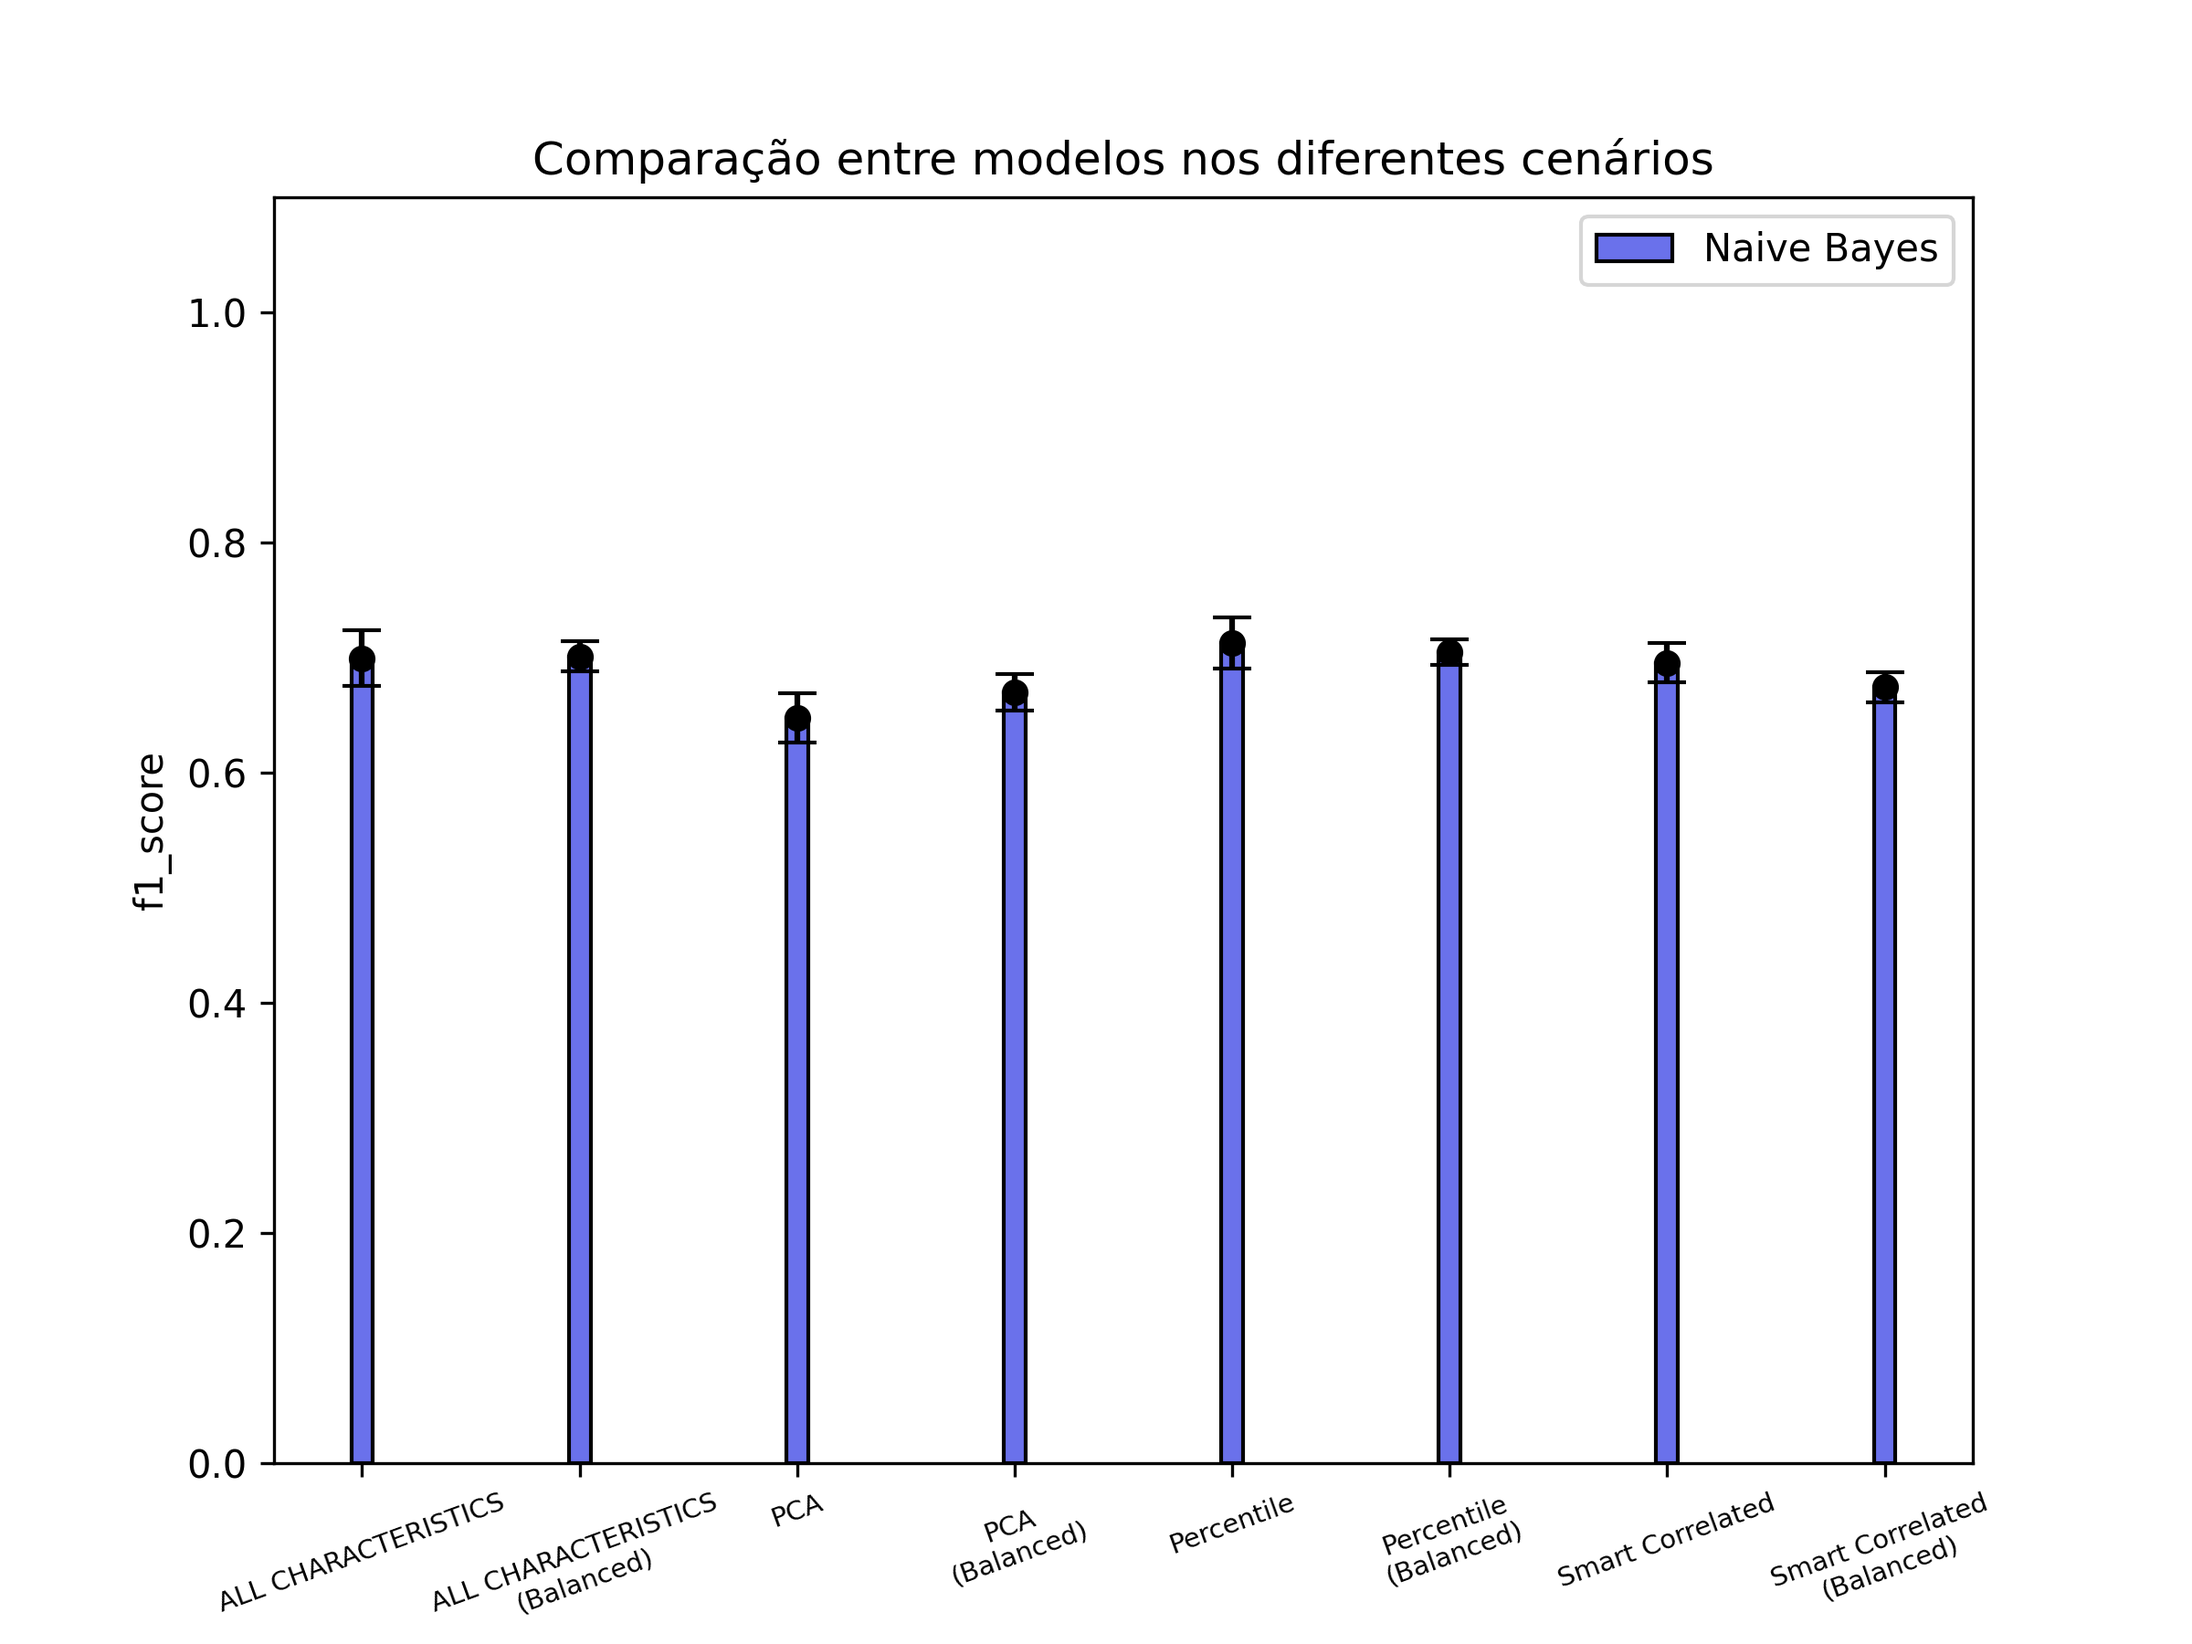
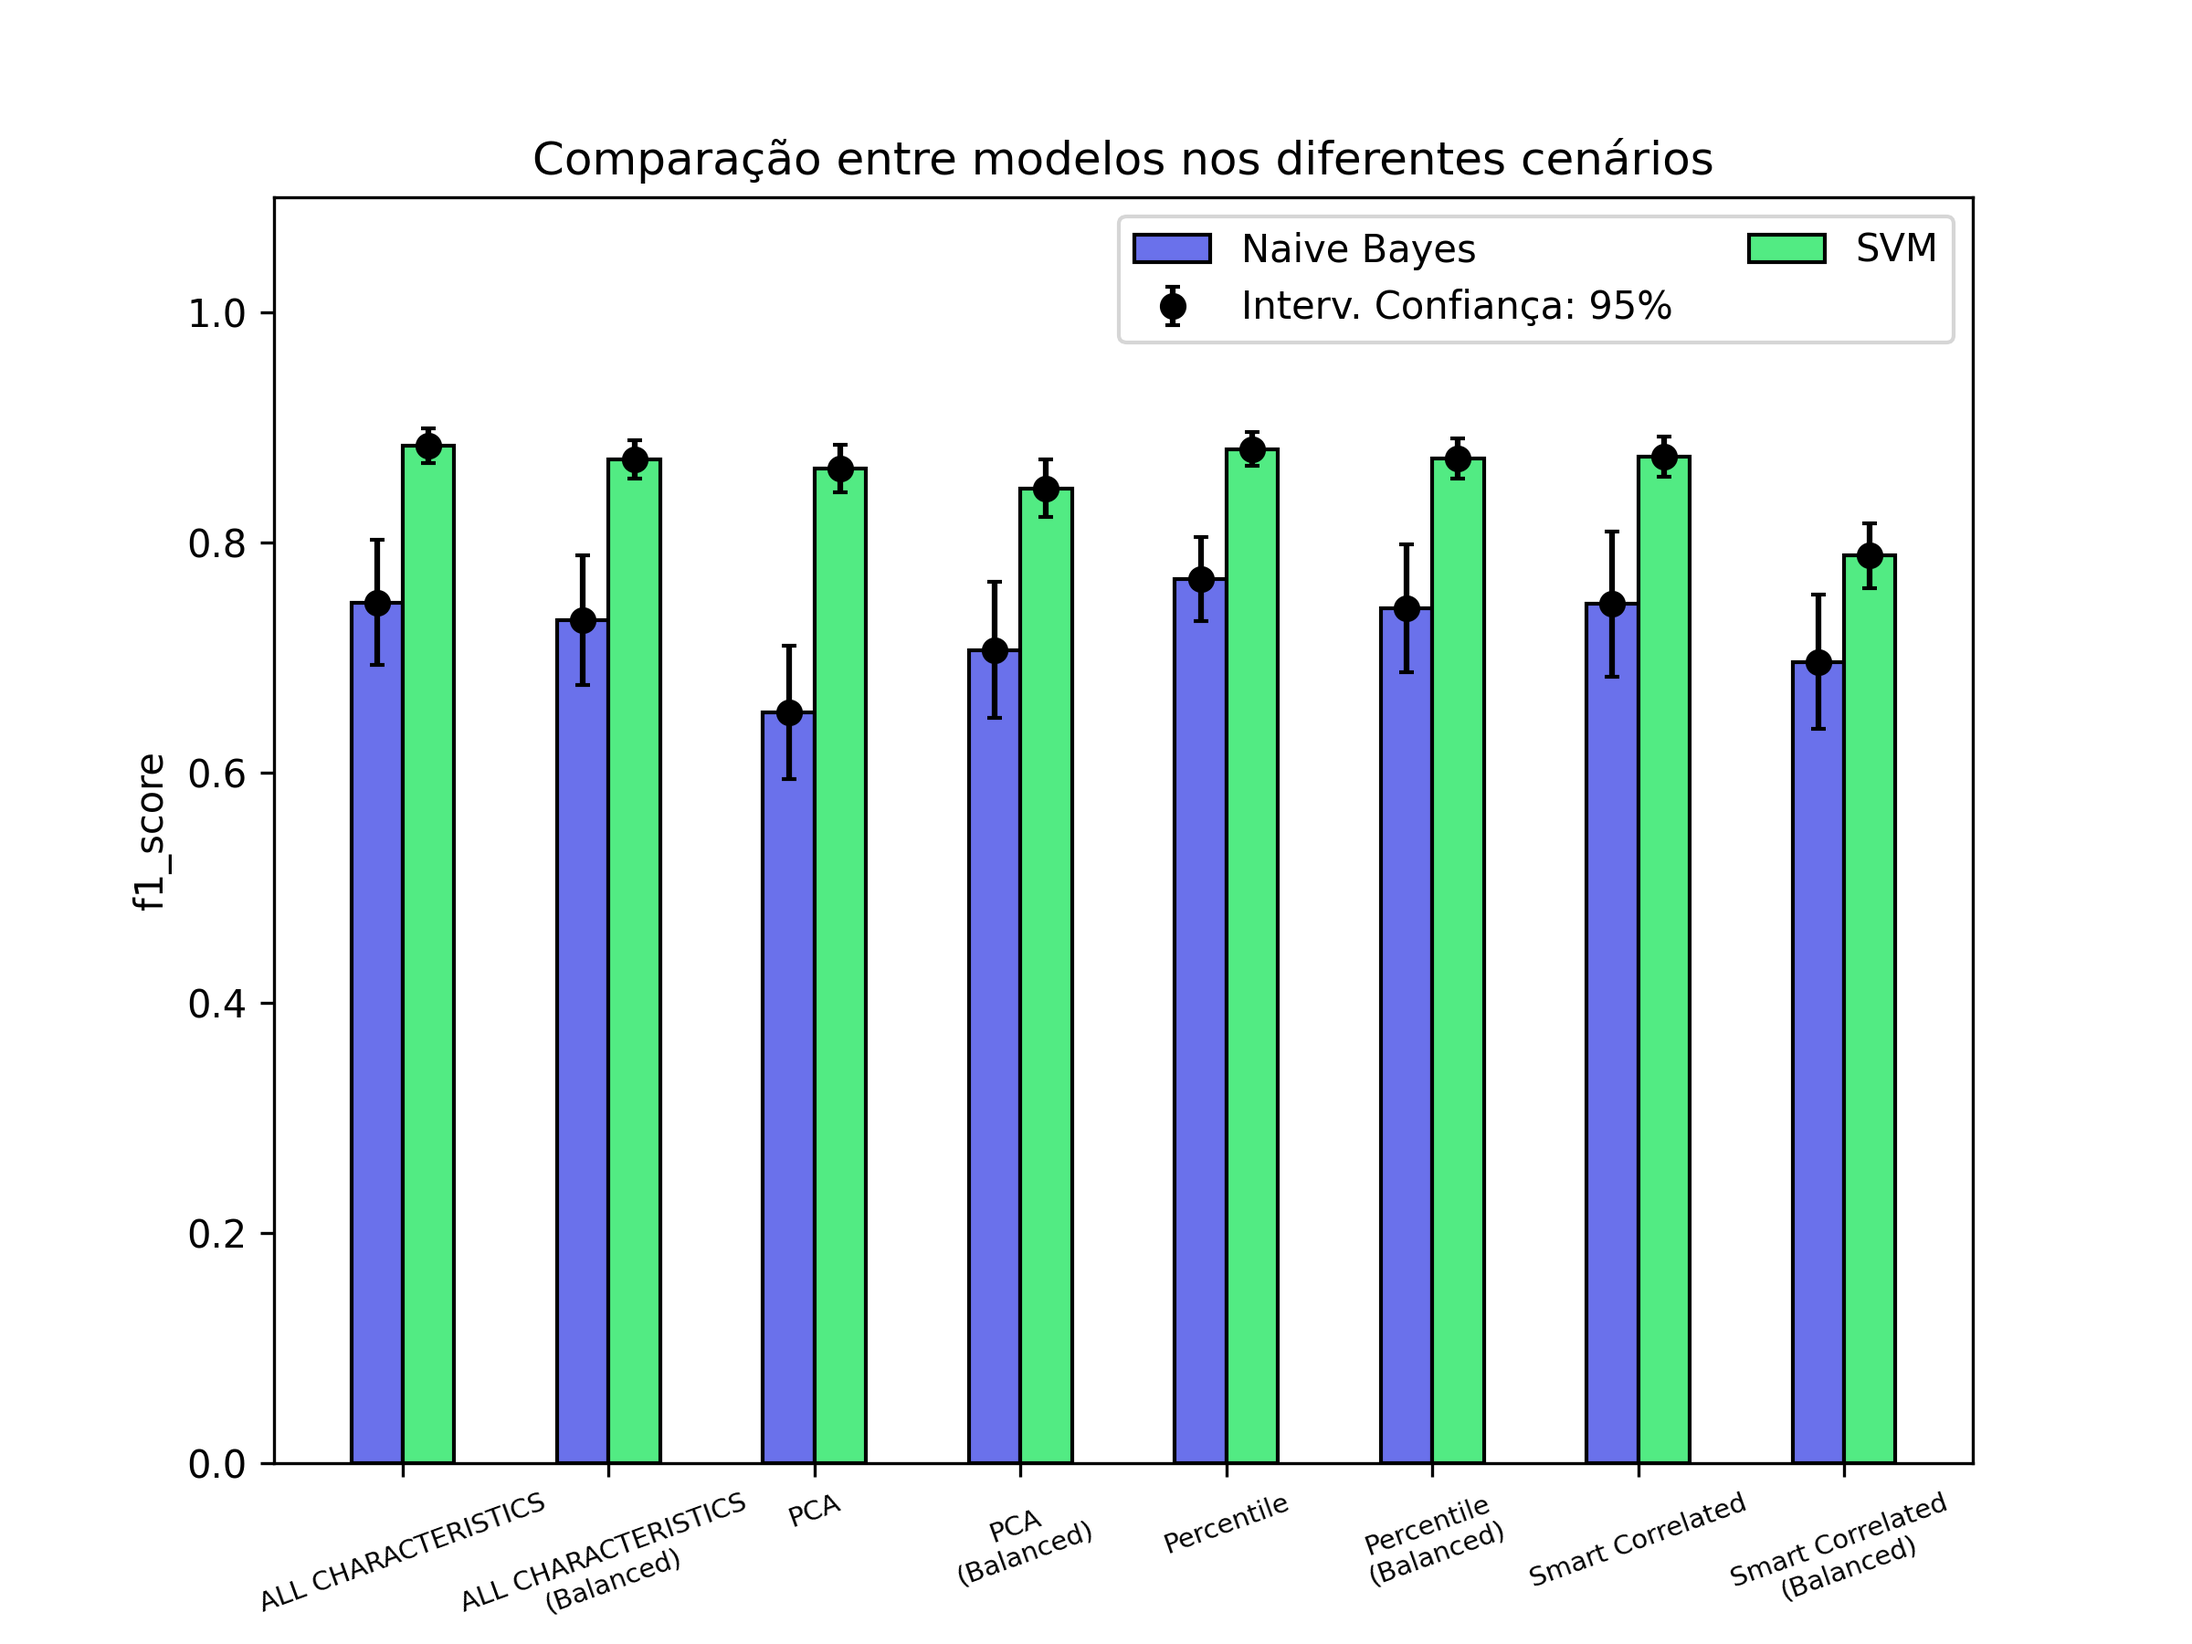
ADds SVM results

diff --git a/src/evaluation/crossval.py b/src/evaluation/crossval.py
@@ -1,9 +1,14 @@
+import json
+from copy import deepcopy
+from pathlib import Path
 from typing import Dict, List
+from uuid import uuid4
 
 import numpy as np
 import statsmodels.stats.api as stats
 from loguru import logger
 from sklearn.model_selection import StratifiedKFold
+from slugify import slugify
 from tqdm import tqdm
 
 
@@ -15,7 +20,7 @@ def summary_metric_array(metric_array: List):
 
 
 def __run_kfolds(clf, k, X, y, criterion, metrics):
-    _metrics = metrics.copy()
+    _metrics = deepcopy(metrics)
 
     kfold = StratifiedKFold(n_splits=k)
     folds = kfold.split(X, y)
@@ -35,13 +40,39 @@ def __run_kfolds(clf, k, X, y, criterion, metrics):
 
     for metric in _metrics:
         # calcula media e intervalo de confianca (95%) para cada metrica
-        mean, (ci_lower, ci_upper) = summary_metric_array(metrics[metric]["array"])
-        metrics[metric]["mean"] = mean
-        metrics[metric]["ci_lower"] = ci_lower
-        metrics[metric]["ci_upper"] = ci_upper
+        mean, (ci_lower, ci_upper) = summary_metric_array(_metrics[metric]["array"])
+        _metrics[metric]["mean"] = mean
+        _metrics[metric]["ci_lower"] = ci_lower
+        _metrics[metric]["ci_upper"] = ci_upper
 
-    score = metrics[criterion]["mean"]
+    score = _metrics[criterion]["mean"]
     return score, _metrics
+
+
+def __save_partial_results(experiment, params: Dict, metrics: Dict, idx):
+    _metrics = deepcopy(metrics)
+    for metric in _metrics:
+        del _metrics[metric]["method"]
+
+    model = experiment.model.name
+    scenario = experiment.scenario.name
+
+    regex_pattern = r"[^-a-z0-9_]+"
+    file_name = slugify(
+        f"{model}_{scenario}_param-set-{idx}", regex_pattern=regex_pattern
+    )
+
+    partial_results = {
+        "model": model,
+        "scenario": scenario,
+        "params": params,
+        "metrics": _metrics,
+    }
+
+    Path(f"data/results/partial/{model}/").mkdir(exist_ok=True, parents=True)
+
+    with open(f"data/results/partial/{model}/{file_name}.json", "w") as f:
+        f.write(json.dumps(partial_results))
 
 
 def cross_validate(
@@ -52,6 +83,8 @@ def cross_validate(
     metrics: Dict,
     criterion: str,
     parameters: List[Dict],
+    experiment,
+    save_partial: bool = False,
 ):
     logger.info(f"Starting cross validation...")
 
@@ -60,15 +93,21 @@ def cross_validate(
     best_metrics = None
 
     logger.info(f"Running CV with k={k} for each hyper parameter combinarion...")
-    for param_combination in parameters:
+    for idx, param_combination in enumerate(parameters):
         estimator.set_params(**param_combination)
-        logger.info(f"Running params: {param_combination}")
         score, _metrics = __run_kfolds(estimator, k, X, y, criterion, metrics)
+
+        if save_partial:
+            __save_partial_results(experiment, param_combination, _metrics, idx)
 
         if not highest_score or score > highest_score:
             highest_score = score
             best_params = param_combination
             best_metrics = _metrics
+
+        logger.info(
+            f"Run for params: {param_combination} - {_metrics['f1_score']['mean']}"
+        )
 
     logger.info(f"Best hyper parameters founded...")
     return best_params, best_metrics

diff --git a/src/dataviz/plots.py b/src/dataviz/plots.py
@@ -91,7 +91,7 @@ def make_bar_chart_comparision(metrics_df: pd.DataFrame, metric: str):
 
     fig, ax = plt.subplots(dpi=150, figsize=(8, 6))
 
-    bar_width = 0.1
+    bar_width = 0.25
     bar_positions = np.arange(len(scenarios))
     bar_mean_positions = np.zeros(bar_positions.shape)
 
@@ -108,14 +108,26 @@ def make_bar_chart_comparision(metrics_df: pd.DataFrame, metric: str):
             label=model,
         )
 
-        plt.errorbar(
-            bar_positions,
-            _df[metric].tolist(),
-            capsize=5,
-            yerr=[_df["yerr_lower"], _df["yerr_upper"]],
-            fmt="o",
-            color="k",
-        )
+        if idx >= 1:
+            plt.errorbar(
+                bar_positions,
+                _df[metric].tolist(),
+                capsize=2,
+                yerr=[_df["yerr_lower"], _df["yerr_upper"]],
+                fmt="o",
+                color="k",
+            )
+        else:
+            plt.errorbar(
+                bar_positions,
+                _df[metric].tolist(),
+                capsize=2,
+                yerr=[_df["yerr_lower"], _df["yerr_upper"]],
+                fmt="o",
+                color="k",
+                label="Interv. Confiança: 95%",
+            )
+
         bar_positions = bar_positions + bar_width
 
     plt.legend(ncol=2)

diff --git a/src/train/models.py b/src/train/models.py
@@ -19,24 +19,27 @@ class NaiveBayes(Model):
 
 class SVM(Model):
     name = "SVM"
-    classifier = SVC(random_state=0)
+    classifier = SVC(random_state=0, max_iter=50000)
     param_grid: List[Dict] = [
         {
             "clf__kernel": ["linear"],
             "clf__C": [1e-1, 1, 1e1, 1e2],
-            "clf__class_weight": [None, "balanced"],
         },
         {
             "clf__kernel": ["sigmoid"],
             "clf__C": [1e-1, 1, 1e1, 1e2],
             "clf__gamma": [1e-2, 1e-1, 1, 1e2, 1e3],
-            "clf__class_weight": [None, "balanced"],
         },
         {
             "clf__kernel": ["rbf"],
             "clf__C": [1e-1, 1, 1e1, 1e2],
             "clf__gamma": [1e-2, 1e-1, 1, 1e2, 1e3],
-            "clf__class_weight": [None, "balanced"],
+        },
+        {
+            "clf__kernel": ["poly"],
+            "clf__C": [1e-1, 1, 1e1, 1e2],
+            "clf__degree": [1, 2, 3],
+            "clf__gamma": [1e-2, 1e-1, 1, 1e2, 1e3],
         },
     ]
 

diff --git a/src/train/scenarios.py b/src/train/scenarios.py
@@ -25,7 +25,9 @@ class AllCharacteristicsScenario(Scenario):
     is_balanced = False
     feature_selection = "ALL CHARACTERISTICS"
     metrics = METRICS
-    preprocessing_steps = []
+    preprocessing_steps = [
+        ("scaler", MinMaxScaler()),
+    ]
 
 
 class PCAScenario(Scenario):
@@ -45,6 +47,7 @@ class MIScenario(Scenario):
     feature_selection = "Select Percentile"
     metrics = METRICS
     preprocessing_steps = [
+        ("scaler", MinMaxScaler()),
         ("fs", SelectPercentile(score_func=mutual_info_classif, percentile=80)),
     ]
 
@@ -55,6 +58,7 @@ class SmartCorrelated(Scenario):
     feature_selection = "Smart Correlated"
     metrics = METRICS
     preprocessing_steps = [
+        ("scaler", MinMaxScaler()),
         ("fs", SmartCorrelatedSelection(selection_method="variance")),
     ]
 

diff --git a/notebooks/4. Metrics - SVM.py b/notebooks/4. Metrics - SVM.py
@@ -1,0 +1,38 @@
+# ---
+# jupyter:
+#   jupytext:
+#     formats: ipynb,py:light
+#     text_representation:
+#       extension: .py
+#       format_name: light
+#       format_version: '1.5'
+#       jupytext_version: 1.13.8
+#   kernelspec:
+#     display_name: Python 3 (ipykernel)
+#     language: python
+#     name: python3
+# ---
+
+# # SVM
+
+import pandas as pd
+
+df = pd.read_csv("../data/results/metrics.csv")
+
+svm_metrics = df[df.model_name == "SVM"]
+
+_svm_metrics = pd.concat(
+    [
+        svm_metrics[["scenario_name", "accuracy", "precision", "recall", "f1_score"]],
+        svm_metrics["best_params"].map(eval).apply(pd.Series)
+    ],
+    axis=1
+)
+
+(
+    _svm_metrics
+    .style
+    .highlight_max(subset=["accuracy", "precision", "recall", "f1_score"], color="#8F8")
+)
+
+

diff --git a/src/train/train.py b/src/train/train.py
@@ -1,4 +1,5 @@
 import os
+import warnings
 from functools import partial
 from multiprocessing import Pool
 from pathlib import Path
@@ -18,7 +19,7 @@ def run_experiment(experiment: Experiment, X, y, metrics_folder):
     experiment.run(X, y).save_metrics(metrics_folder=metrics_folder)
 
 
-if __name__ == "__main__":
+def main():
     df = pd.read_csv("data/preprocessed/HTRU_2_outliers_removed.csv")
     metrics_folder = "data/results"
     metrics_file = Path("data/results/metrics.csv")
@@ -45,3 +46,9 @@ if __name__ == "__main__":
 
     for metric in metrics:
         make_bar_chart_comparision(metrics_df, metric=metric)
+
+
+if __name__ == "__main__":
+    with warnings.catch_warnings():
+        warnings.simplefilter("ignore")
+        main()

diff --git a/src/train/experiment.py b/src/train/experiment.py
@@ -40,6 +40,7 @@ class Experiment:
             metrics=self.scenario.metrics,
             criterion=self.scenario.selection_criteria,  # to choose the best model
             parameters=self.get_hyperparameters_combinations(),
+            experiment=self,
         )
 
         self.scenario.metrics.update(best_metrics)
@@ -100,7 +101,7 @@ class Experiment:
 
 
 if __name__ == "__main__":
-    from src.train.models import SVM
+    from src.train.models import SVM, NaiveBayes
     from src.train.scenarios import PCAScenario
 
     df = pd.read_csv("data/preprocessed/HTRU_2_outliers_removed.csv")
